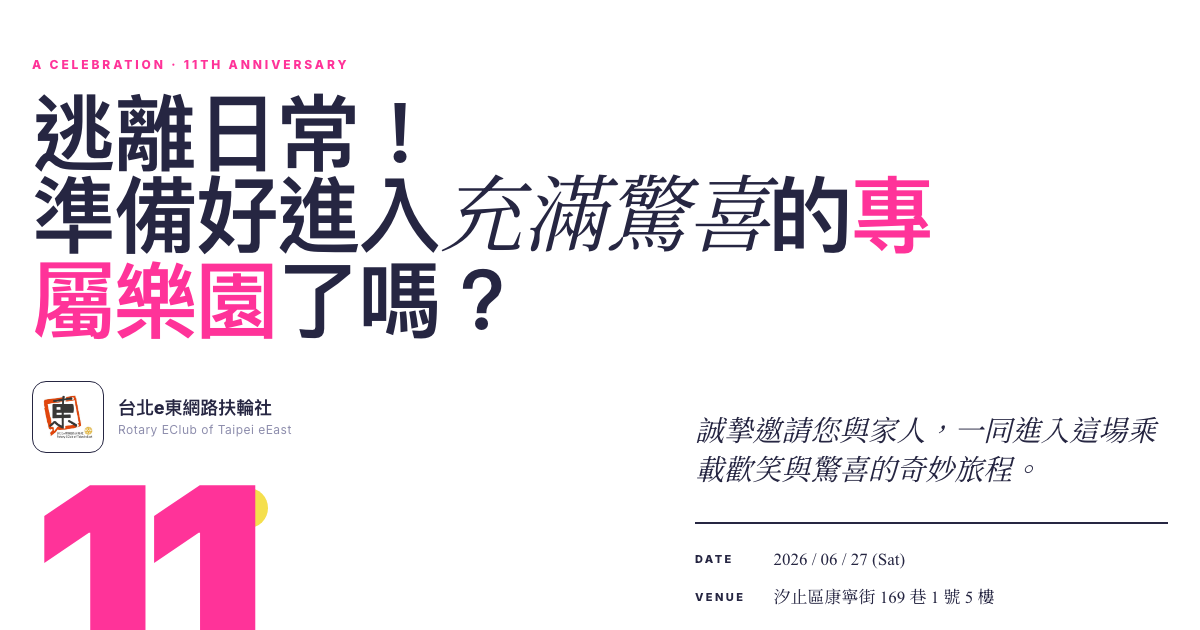
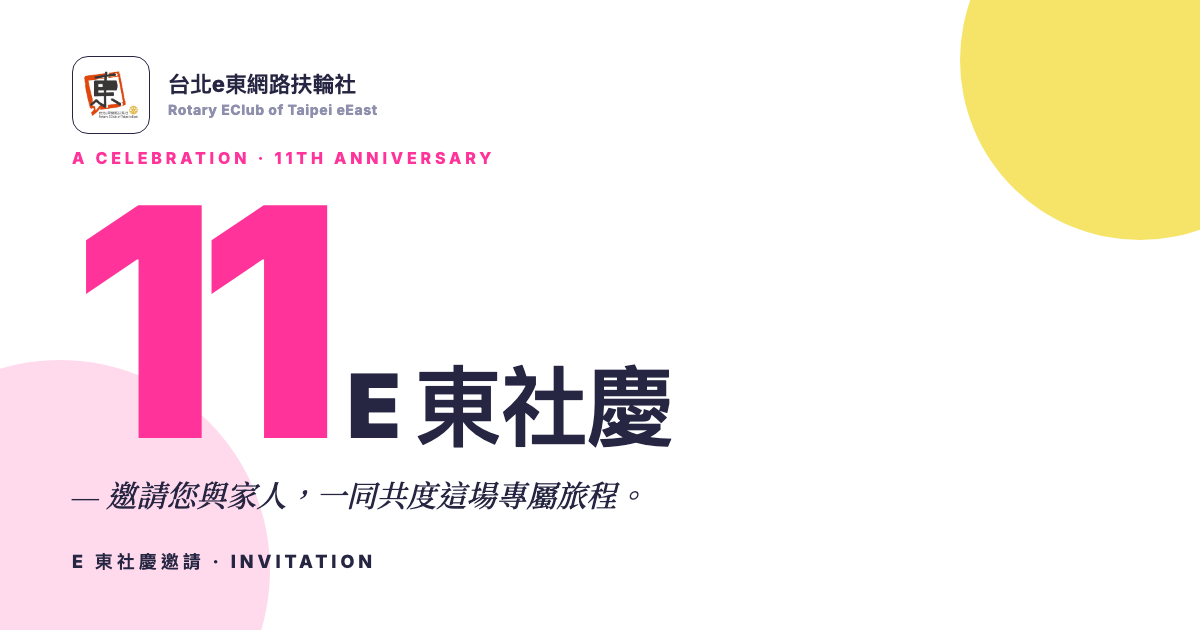
feat: cleaner OG thumbnail (no date/venue, brand-focused)

diff --git a/og.html b/og.html
@@ -1,0 +1,148 @@
+<!DOCTYPE html>
+<html lang="zh-TW">
+<head>
+<meta charset="UTF-8">
+<title>OG</title>
+<link href="https://fonts.googleapis.com/css2?family=Inter:wght@800;900&family=Noto+Sans+TC:wght@700;900&family=Noto+Serif+TC:wght@500&display=swap" rel="stylesheet">
+<style>
+  :root {
+    --ink: #262642;
+    --pink: #ff3399;
+    --yellow: #f5df4d;
+    --paper: #ffffff;
+    --mute: #8e8ead;
+    --sans: 'Inter', 'PingFang TC', 'Noto Sans TC', sans-serif;
+    --serif: 'Times New Roman', 'Noto Serif TC', serif;
+  }
+  * { margin: 0; padding: 0; box-sizing: border-box; }
+  html, body { width: 1200px; height: 630px; overflow: hidden; }
+  body {
+    background: var(--paper);
+    color: var(--ink);
+    font-family: var(--sans);
+    position: relative;
+    padding: 56px 72px;
+    display: flex;
+    flex-direction: column;
+    justify-content: space-between;
+  }
+  body::before {
+    content: '';
+    position: absolute;
+    top: -120px; right: -120px;
+    width: 360px; height: 360px;
+    border-radius: 50%;
+    background: var(--yellow);
+    opacity: 0.85;
+  }
+  body::after {
+    content: '';
+    position: absolute;
+    bottom: -150px; left: -150px;
+    width: 420px; height: 420px;
+    border-radius: 50%;
+    background: var(--pink);
+    opacity: 0.18;
+  }
+  .brand {
+    display: flex;
+    align-items: center;
+    gap: 18px;
+    position: relative;
+    z-index: 1;
+  }
+  .brand img {
+    width: 78px; height: 78px;
+    border-radius: 16px;
+    border: 1.5px solid var(--ink);
+    padding: 6px;
+    background: var(--paper);
+  }
+  .brand-text { display: flex; flex-direction: column; line-height: 1.2; }
+  .brand-text strong {
+    font-weight: 800;
+    font-size: 22px;
+    letter-spacing: -0.005em;
+  }
+  .brand-text span {
+    font-weight: 400;
+    font-size: 14px;
+    color: var(--mute);
+    margin-top: 4px;
+    letter-spacing: 0.04em;
+  }
+  .center {
+    position: relative;
+    z-index: 1;
+    margin-top: -20px;
+  }
+  .eyebrow {
+    font-weight: 800;
+    font-size: 16px;
+    letter-spacing: 0.24em;
+    text-transform: uppercase;
+    color: var(--pink);
+    margin-bottom: 18px;
+  }
+  .hero-line {
+    display: flex;
+    align-items: baseline;
+    gap: 24px;
+    flex-wrap: nowrap;
+  }
+  .eleven {
+    font-weight: 900;
+    font-size: 320px;
+    line-height: 0.85;
+    letter-spacing: -0.06em;
+    color: var(--pink);
+  }
+  .label {
+    font-weight: 900;
+    font-size: 88px;
+    line-height: 1;
+    letter-spacing: -0.024em;
+    color: var(--ink);
+  }
+  .invite {
+    margin-top: 14px;
+    font-family: var(--serif);
+    font-style: italic;
+    font-weight: 500;
+    font-size: 30px;
+    color: var(--ink);
+  }
+  .footer-tag {
+    position: relative;
+    z-index: 1;
+    font-weight: 800;
+    font-size: 18px;
+    letter-spacing: 0.22em;
+    text-transform: uppercase;
+    color: var(--ink);
+  }
+</style>
+</head>
+<body>
+
+<div class="brand">
+  <img src="logo.png" alt="">
+  <div class="brand-text">
+    <strong>台北e東網路扶輪社</strong>
+    <span>Rotary EClub of Taipei eEast</span>
+  </div>
+</div>
+
+<div class="center">
+  <div class="eyebrow">A Celebration · 11th Anniversary</div>
+  <div class="hero-line">
+    <span class="eleven">11</span>
+    <span class="label">E 東社慶</span>
+  </div>
+  <div class="invite">— 邀請您與家人，一同共度這場專屬旅程。</div>
+</div>
+
+<div class="footer-tag">e 東社慶邀請 · Invitation</div>
+
+</body>
+</html>